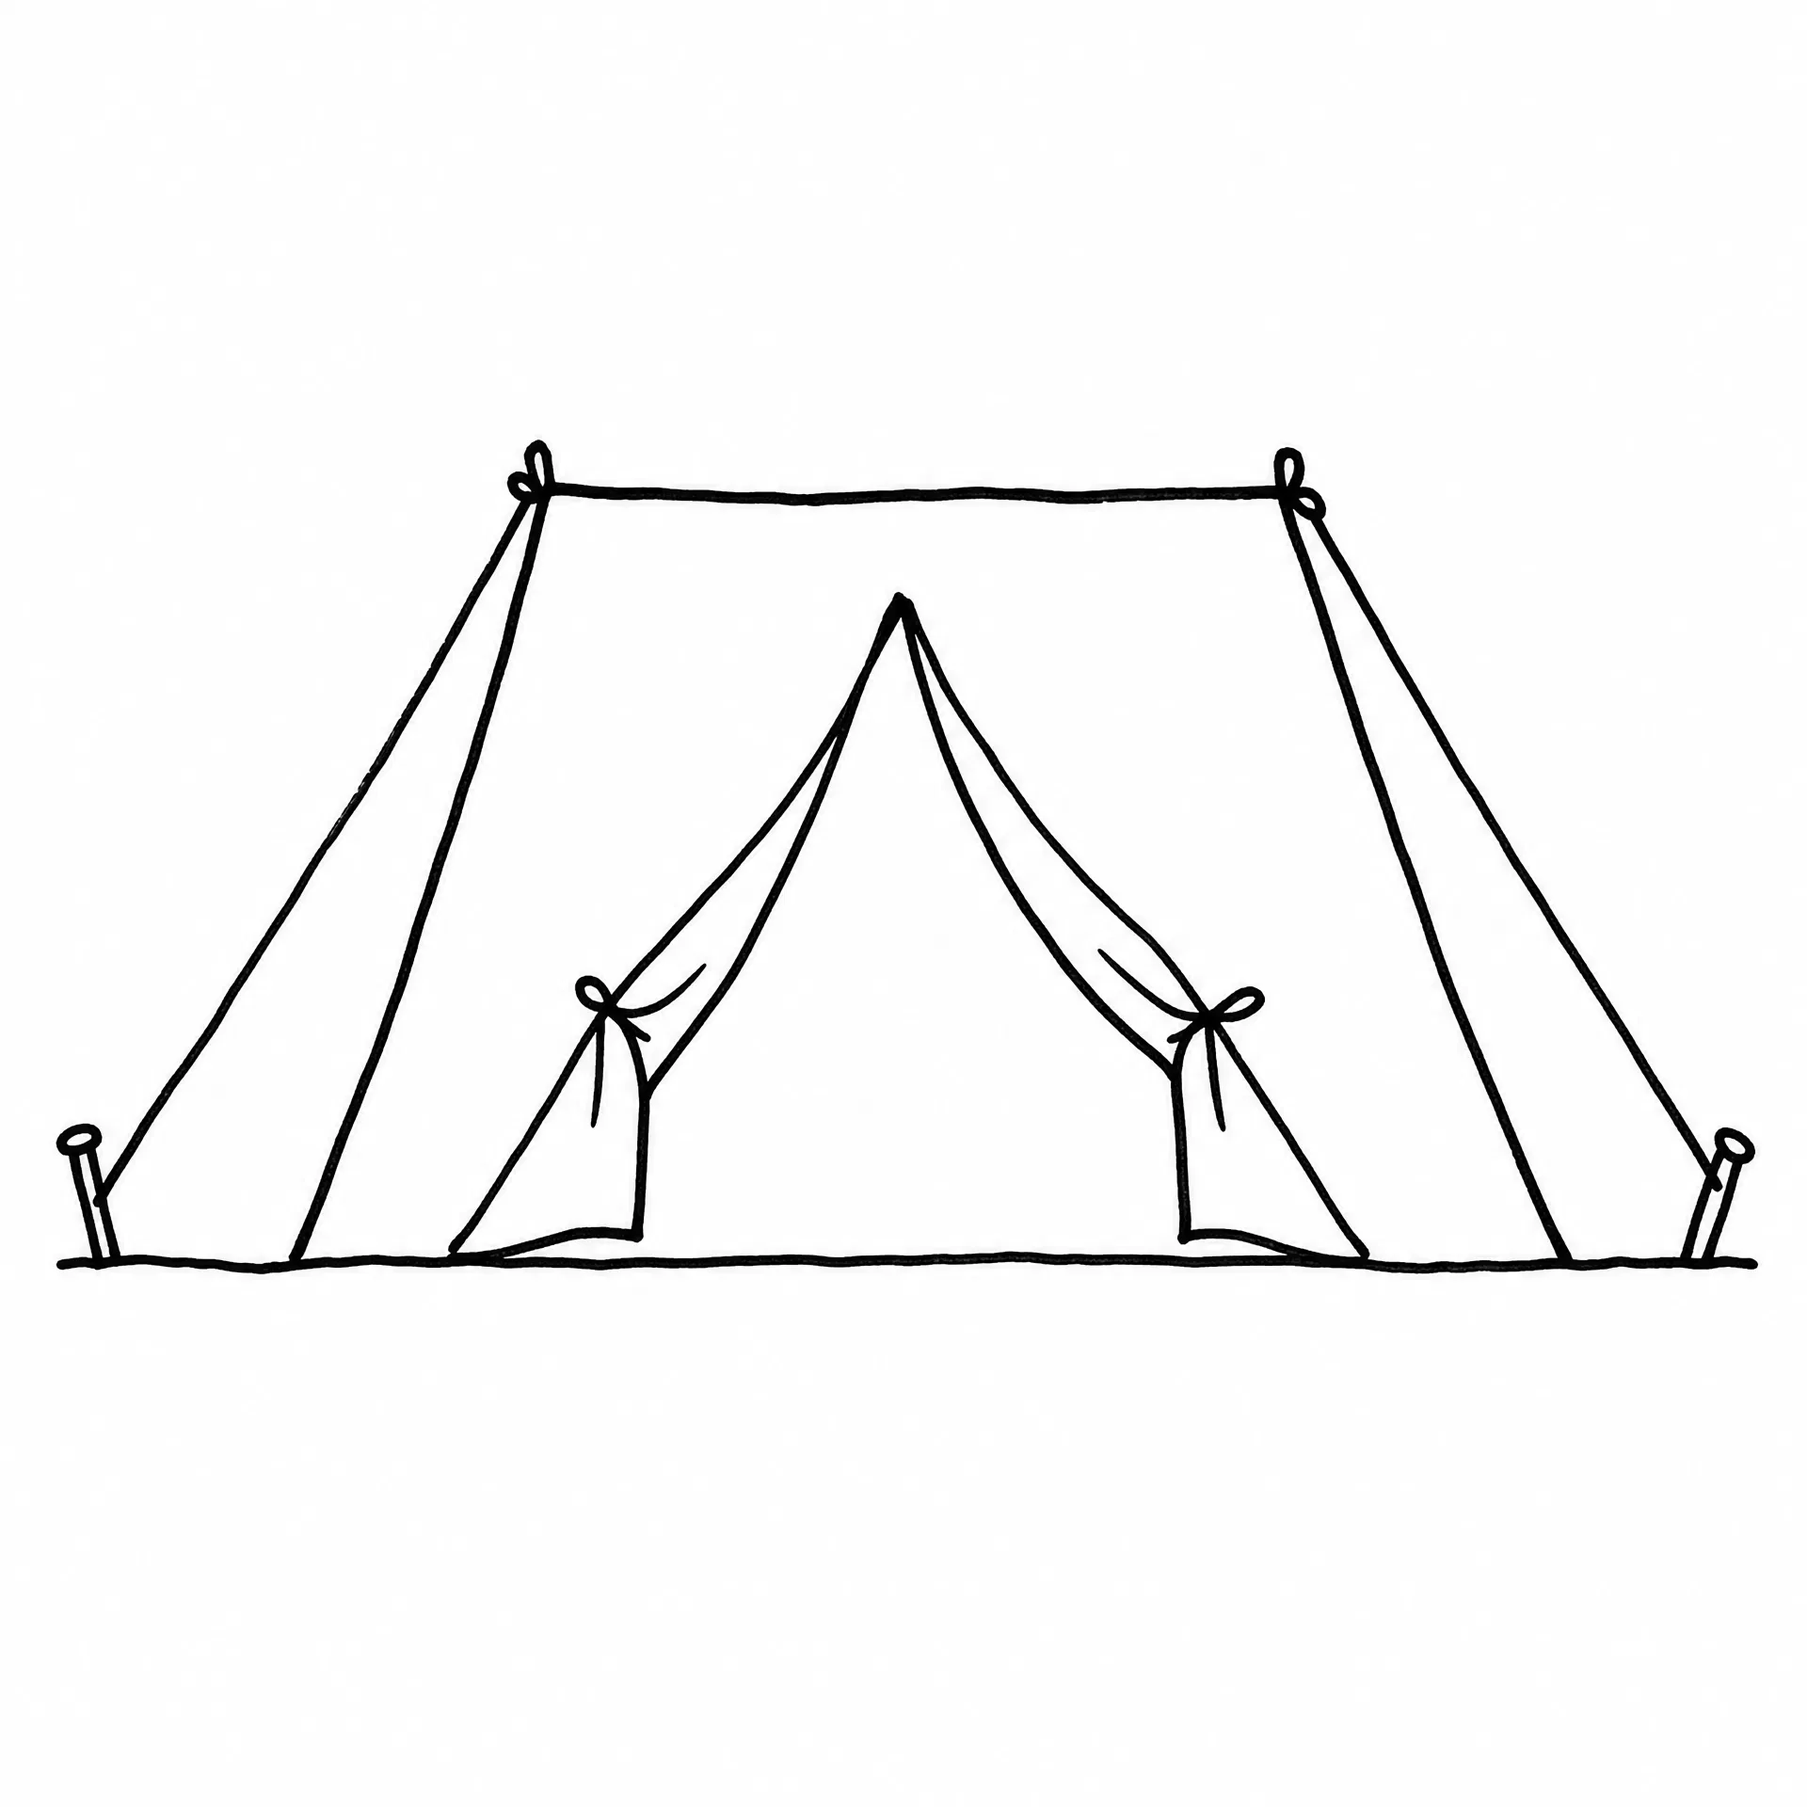
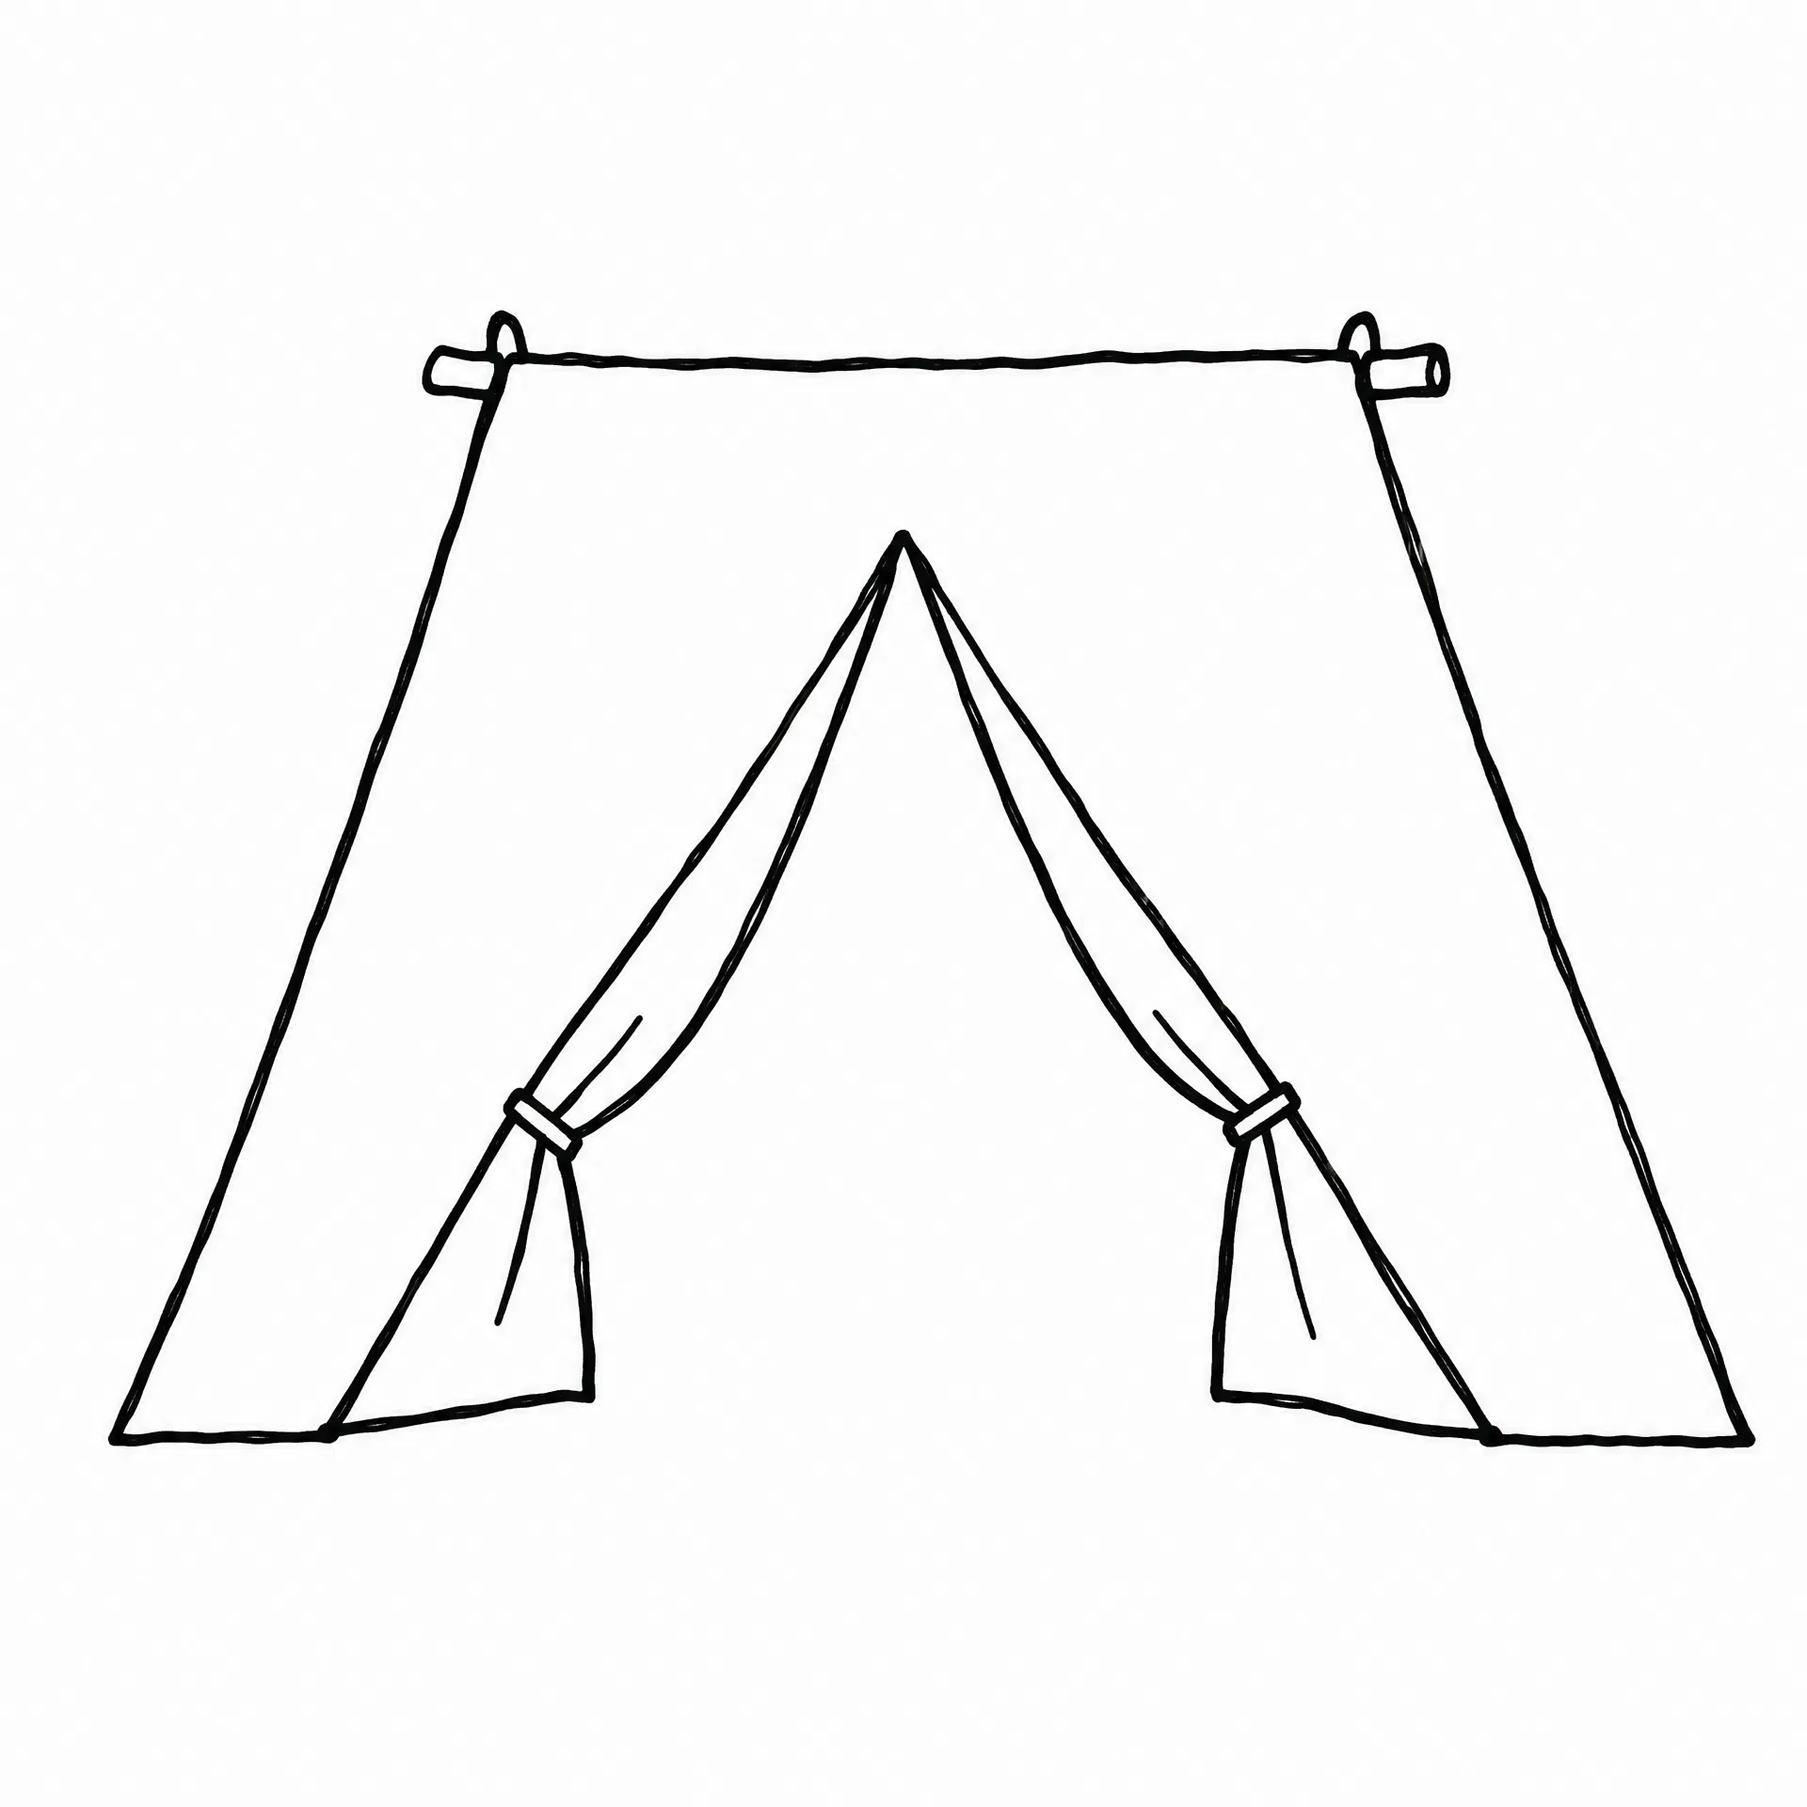
art(worldmap): camp v2 — ropes out, ridge stubs in, 2.00:1 down to 1.44:1
v1 broke the triangle collision with `lead`/`play`/`home` as intended, but
paid for it in the wrong dimension: the guy ropes stretched the content box
to 2.00:1, so contain-fitting into the square cell left the tent occupying
half the height and reading a weight class lighter than everything beside
it — while the ropes themselves are invisible at 26px. Width spent, no
legibility bought.

v2 changes only that: no ropes, no pegs, no ground line; the ridge pole
pokes out as a stub at each end and the entrance opening is enlarged, so
what breaks the triangle is the part that survives the downscale. 128x89
now. At 26/28px on both grounds it fills the cell at its neighbours'
weight, and it was shot in the real modal alongside `home` (the garrison
and recall-garrison buttons genuinely co-occur) on both the paper line and
the dark button fill.

Zero code change, as the batch-9 doc predicted for a redraw: source swap
plus a repack, which touched camp_active.png and left the other 194 assets
byte-identical. v1 archived under _rejected/.

diff --git a/design/product/art-direction-map-ui.md b/design/product/art-direction-map-ui.md
@@ -234,7 +234,7 @@ client/src/assets/decor/   # 最终透明 PNG / 图集
 
 **顺带一条通用判据**：图标是名字之上的冗余提示，不是名字的替身——一行里只要有任何一个词条没有图标，这行就得全部写名字。
 
-**批次 9：世界地图弹窗图标槽剩下的 7 个空位**（2026-09-02 判断+prompt，出图待办）。`showModal` 长出图标槽（同日，见 [`SLG_LOG_2026-08.md`](../game/SLG_LOG_2026-08.md)）之后，24 个位点接上了现成美术，剩下两类填不了：三条结构状态行（瞭望塔/箭塔/阻挡）在墨色表里压根没有对应美术，当时**刻意保留了字符串里的 emoji 🗼🏹🚧**——删掉等于让这三行彻底失去标记，比留一个字体不受控的字形更糟；另外四处（坐标行借 `globe`、驻扎借 `unit`、停留借 `spd`、险地标题借 `siege`）是能用但语义借来的。判断表和 prompt 见 [`tab-icon-art-prompts-batch9.md`](tab-icon-art-prompts-batch9.md)。**这批有三条跟以往不同的地方**：①**不复用地图上那三张同名建筑图**（`icon_watchtower`/`icon_blocker`/`icon_arrowTower` 都已存在且语义一致）——它们是写实钢笔排线的另一套语言，而且 [`slg-building-art.md`](slg-building-art.md) §6 已经在它们各自真实的渲染高度（≈30px/≈17px）上量过，结论是「本来就是一团模糊的排线纹理」，当地景可以，当 26px 的信息标记不行；②**三个建造图标是一个集合而不是三张图**（同一个建造菜单里同屏），按沙漏三档的老规矩一次请求出三张；③`blocker` 这次明确要求**塞进正方形**而不是照地图那张的 2.91:1 画矮长条——`iconArtAspect.test.ts` 的 2.2 上限会直接拦，而正确解法是重出，不是往 `ELONGATED_ON_PURPOSE` 加豁免。「保护中」的盾**没有**进这批：`armor`/`armorHeavy` 那面正面圆盘在 26px 上读不出来是已经交过学费的结论，而"保护中"该画盾、画伞还是干脆用 `lock` 是一次独立的语义判断，不该顺手塞进一批以地块结构物为主题的出图里。 **同日出图 + 接线 + 实拍完成**：6 张一版过，`camp` 记为可用但最弱并登记 v2——它没跟 `lead`/`play`/`home` 混（"入口 + 绷绳 + 地面线"确实把它从三角剪影里拽了出来），但**代价付错了维度**：绷绳把外框拉到 2.00:1、contain-fit 后只占方框一半高度，在同一行里比邻居轻一档，而绷绳本身在 26px 上完全看不见。这条值得单独记住——**破除撞车的那几笔，如果自己在目标尺寸上会消失，就只剩下"把外框撑宽"这一个副作用**，等于用可读性换了可读性。v2 改成用脊杆端头破三角、整体收成方形。另外实拍量到 `btnW = 166 < 200`（图标门禁），所以五个按钮图标在最常见的己方地块菜单里今天一个都不画——既有排版问题，根治靠缩短标签，本批兑现的是三条状态行 + 坐标行 + 险地标题。
+**批次 9：世界地图弹窗图标槽剩下的 7 个空位**（2026-09-02 判断+prompt，出图待办）。`showModal` 长出图标槽（同日，见 [`SLG_LOG_2026-08.md`](../game/SLG_LOG_2026-08.md)）之后，24 个位点接上了现成美术，剩下两类填不了：三条结构状态行（瞭望塔/箭塔/阻挡）在墨色表里压根没有对应美术，当时**刻意保留了字符串里的 emoji 🗼🏹🚧**——删掉等于让这三行彻底失去标记，比留一个字体不受控的字形更糟；另外四处（坐标行借 `globe`、驻扎借 `unit`、停留借 `spd`、险地标题借 `siege`）是能用但语义借来的。判断表和 prompt 见 [`tab-icon-art-prompts-batch9.md`](tab-icon-art-prompts-batch9.md)。**这批有三条跟以往不同的地方**：①**不复用地图上那三张同名建筑图**（`icon_watchtower`/`icon_blocker`/`icon_arrowTower` 都已存在且语义一致）——它们是写实钢笔排线的另一套语言，而且 [`slg-building-art.md`](slg-building-art.md) §6 已经在它们各自真实的渲染高度（≈30px/≈17px）上量过，结论是「本来就是一团模糊的排线纹理」，当地景可以，当 26px 的信息标记不行；②**三个建造图标是一个集合而不是三张图**（同一个建造菜单里同屏），按沙漏三档的老规矩一次请求出三张；③`blocker` 这次明确要求**塞进正方形**而不是照地图那张的 2.91:1 画矮长条——`iconArtAspect.test.ts` 的 2.2 上限会直接拦，而正确解法是重出，不是往 `ELONGATED_ON_PURPOSE` 加豁免。「保护中」的盾**没有**进这批：`armor`/`armorHeavy` 那面正面圆盘在 26px 上读不出来是已经交过学费的结论，而"保护中"该画盾、画伞还是干脆用 `lock` 是一次独立的语义判断，不该顺手塞进一批以地块结构物为主题的出图里。 **同日出图 + 接线 + 实拍完成**：6 张一版过，`camp` 记为可用但最弱并登记 v2——它没跟 `lead`/`play`/`home` 混（"入口 + 绷绳 + 地面线"确实把它从三角剪影里拽了出来），但**代价付错了维度**：绷绳把外框拉到 2.00:1、contain-fit 后只占方框一半高度，在同一行里比邻居轻一档，而绷绳本身在 26px 上完全看不见。这条值得单独记住——**破除撞车的那几笔，如果自己在目标尺寸上会消失，就只剩下"把外框撑宽"这一个副作用**，等于用可读性换了可读性。v2 改成用脊杆端头破三角、整体收成方形，同日一版过（2.00 → 1.44:1，26px 上填满方框、与 `home` 同弹窗并排不混）。另外实拍量到 `btnW = 166 < 200`（图标门禁），所以五个按钮图标在最常见的己方地块菜单里今天一个都不画——既有排版问题，根治靠缩短标签，本批兑现的是三条状态行 + 坐标行 + 险地标题。
 
 ---
 

diff --git a/design/product/tab-icon-art-prompts-batch9.md b/design/product/tab-icon-art-prompts-batch9.md
@@ -1,6 +1,6 @@
 # 批次 9：世界地图弹窗图标槽的 7 个空位（瞭望塔 / 箭塔 / 阻挡 / 定位针 / 营帐 / 脚印 / 险地）— Prompt 文档
 
-> 创建：2026-09-02 · 状态：**7 张已出图、已接线、已实拍验收（同日）**——6 张一版过，`camp` 判为「可用但最弱」并登记 v2 重出 prompt（见 §7）。全库账：**56 张自有美术 + 6 个别名 = 62 个 ink kind**
+> 创建：2026-09-02 · 状态：**全批完成（同日）**——7 张出图 + 接线 + 实拍验收，其中 6 张一版过，`camp` v2 一版过（v1 判为「可用但最弱」，见 §7）。全库账：**56 张自有美术 + 6 个别名 = 62 个 ink kind**
 > 前八批：[`tab-icon-art-prompts.md`](tab-icon-art-prompts.md)（批 1–4，19 张）· [`batch5`](tab-icon-art-prompts-batch5.md)（页面标题，24 张）· [`batch6`](tab-icon-art-prompts-batch6.md)（大厅首页，3 张）· [`batch7`](tab-icon-art-prompts-batch7.md)（矢量清零，43 张）+ [`batch7-log`](tab-icon-art-prompts-batch7-log.md)（重出记录）· [`batch8`](tab-icon-art-prompts-batch8.md)（数值词条 4 张 + 8b 卡片元信息 2 张）
 > 配套代码：[`inkIconRaster.ts`](../../client/src/render/icons/inkIconRaster.ts) · [`pack_tab_icons.cjs`](../../art/ui/tabicons/pack_tab_icons.cjs) · [`modalLine.ts`](../../client/src/scenes/worldmap/WorldMapPanels/modalLine.ts) · 调用点见 §5
 > 上游：[`SLG_LOG_2026-08.md` 「2026-09-02：地块弹窗」](../game/SLG_LOG_2026-08.md) 一节的「待补图」段（提交 `e2c83254f`）
@@ -203,7 +203,7 @@ Hand-drawn doodle icon in a worn school notebook, single dark-ink pen line art, 
 
 | kind | 尺寸 | 比 | kind | 尺寸 | 比 |
 |---|---|---|---|---|---|
-| `watchtower` | 106×128 | 1.21 | `camp` | 128×64 | **2.00** |
+| `watchtower` | 106×128 | 1.21 | `camp` | 128×64 → **v2 128×89** | 2.00 → **1.44** |
 | `arrowTower` | 84×128 | 1.52 | `footsteps` | 94×128 | 1.36 |
 | `blocker` | 128×107 | 1.20 | `stronghold` | 128×126 | 1.02 |
 | `mapPin` | 86×128 | 1.49 | | | |
@@ -230,6 +230,10 @@ Hand-drawn doodle icon in a worn school notebook, single dark-ink pen line art, 
 ```
 
 重出落地是**零代码改动**：覆盖 `art/ui/tabicons/tabicon_camp.webp`（旧图移进 `_rejected/`，命名 `tabicon_camp_v1_flat2to1ropesvanish.webp`）、重跑 `node art/ui/tabicons/pack_tab_icons.cjs`，测试不用碰。
+
+**v2 验收结果（同日，一版过）**：裁边后 **128×89 = 1.44:1**（v1 是 2.00）。26/28px 深底+纸底上它现在**填满方框、跟邻居同一个重量级**，读成"带敞口的 A 字帐篷"；跟 `lead`（毛糙锥体）、`play`（实心三角）、`home`（三角顶 + 方身 + 方门）三张三角剪影并排都分得开。真机实拍时特意把 `camp` 和 `home` 放进**同一个弹窗**（`移动并驻扎` 与 `召回驻军` 确实会同屏），信息行和深色按钮两种衬底上都不混。重跑打包只有 `camp_active.png` 一张变化，其余 194 张零字节改动。
+
+**没有达成的那个数**：我原本说要看到 ≤1.3:1，实际是 1.44。没有再要一版——1.3 只是"填得满方框、跟邻居等重"的代用指标，而那个目标已经在 26px 并排上直接看到达成了；为一个代用指标再跑一轮是本末倒置。真正该记住的门槛仍然是 2.2（硬拦）加上"并排看一眼"（判定）。
 
 ### 实拍中查到的一件事：三个建造按钮的图标今天基本画不出来
 

diff --git a/design/game/SLG_LOG_2026-08.md b/design/game/SLG_LOG_2026-08.md
@@ -498,7 +498,7 @@ ADR-069 那条记录末尾留了两处已知遗留，本次一起做掉：
 
 **（同日追加）已开成批次 9**：判断表 + 7 条完整 prompt + 逐行接线清单见 [`tab-icon-art-prompts-batch9.md`](../product/tab-icon-art-prompts-batch9.md)。范围是上面六项里的五项 —— **盾（「保护中」）不在其中**：`armor`/`armorHeavy` 那面正面圆盘在 26px 上读不出来已是定论，而"保护中"到底该画盾、画伞还是复用 `lock`，是一次独立的语义判断，不该顺手塞进一批以地块结构物为主题的出图里。另外两条这批才确认的事：**地图上那三张同名建筑图（`icon_watchtower`/`icon_blocker`/`icon_arrowTower`）不能复用**——[`slg-building-art.md`](../product/slg-building-art.md) §6 已经在它们各自真实的渲染高度上量过，是「一团模糊的排线纹理」，当地景行、当 26px 的信息标记不行；**三个建造图标要一次请求出三张**，因为它们会同屏出现在同一个建造菜单里。
 
-**（同日再追加）批次 9 已出图 + 接线 + 实拍验收完毕**：7 张里 6 张一版过，`camp`（营帐）判为「可用但最弱」——绷绳把外框拉到 2.00:1、而绷绳自己在 26px 上完全消失，于是只贡献宽度不贡献可读性，v2 prompt 已登记（重出零代码改动）。三条状态行的 emoji 🗼🏹🚧 **已删除**，换成 `icon:` 槽；坐标行 `globe`→`mapPin`、驻扎 `unit`→`camp`、停留 `spd`→`footsteps`、险地标题 `siege`→`stronghold`。**实拍顺带查实了一件事**：己方地块菜单 7–9 个按钮时 `btnW = 166`，低于 `core.ts` 的 `btnW >= 200` 图标门禁，所以那五个**按钮**图标在最常见的菜单里一个都不画——这正是上一轮记下的既有排版问题，根治靠缩短标签（`移动到此（停留）`→`停留`），属产品决定。本批真正兑现的是三条状态行 + 坐标行 + 险地标题；按钮侧已验证字形在深色填充上渲染正确，标签一缩短即自动显示。
+**（同日再追加）批次 9 已出图 + 接线 + 实拍验收完毕**：7 张里 6 张一版过，`camp`（营帐）判为「可用但最弱」——绷绳把外框拉到 2.00:1、而绷绳自己在 26px 上完全消失，于是只贡献宽度不贡献可读性，**v2 同日一版过**（去掉绷绳地面线、改用脊杆端头破三角并收成方形，1.44:1，26px 上填满方框、与 `home`/`lead`/`play` 并排不混）。三条状态行的 emoji 🗼🏹🚧 **已删除**，换成 `icon:` 槽；坐标行 `globe`→`mapPin`、驻扎 `unit`→`camp`、停留 `spd`→`footsteps`、险地标题 `siege`→`stronghold`。**实拍顺带查实了一件事**：己方地块菜单 7–9 个按钮时 `btnW = 166`，低于 `core.ts` 的 `btnW >= 200` 图标门禁，所以那五个**按钮**图标在最常见的菜单里一个都不画——这正是上一轮记下的既有排版问题，根治靠缩短标签（`移动到此（停留）`→`停留`），属产品决定。本批真正兑现的是三条状态行 + 坐标行 + 险地标题；按钮侧已验证字形在深色填充上渲染正确，标签一缩短即自动显示。
 
 ### 验证
 
